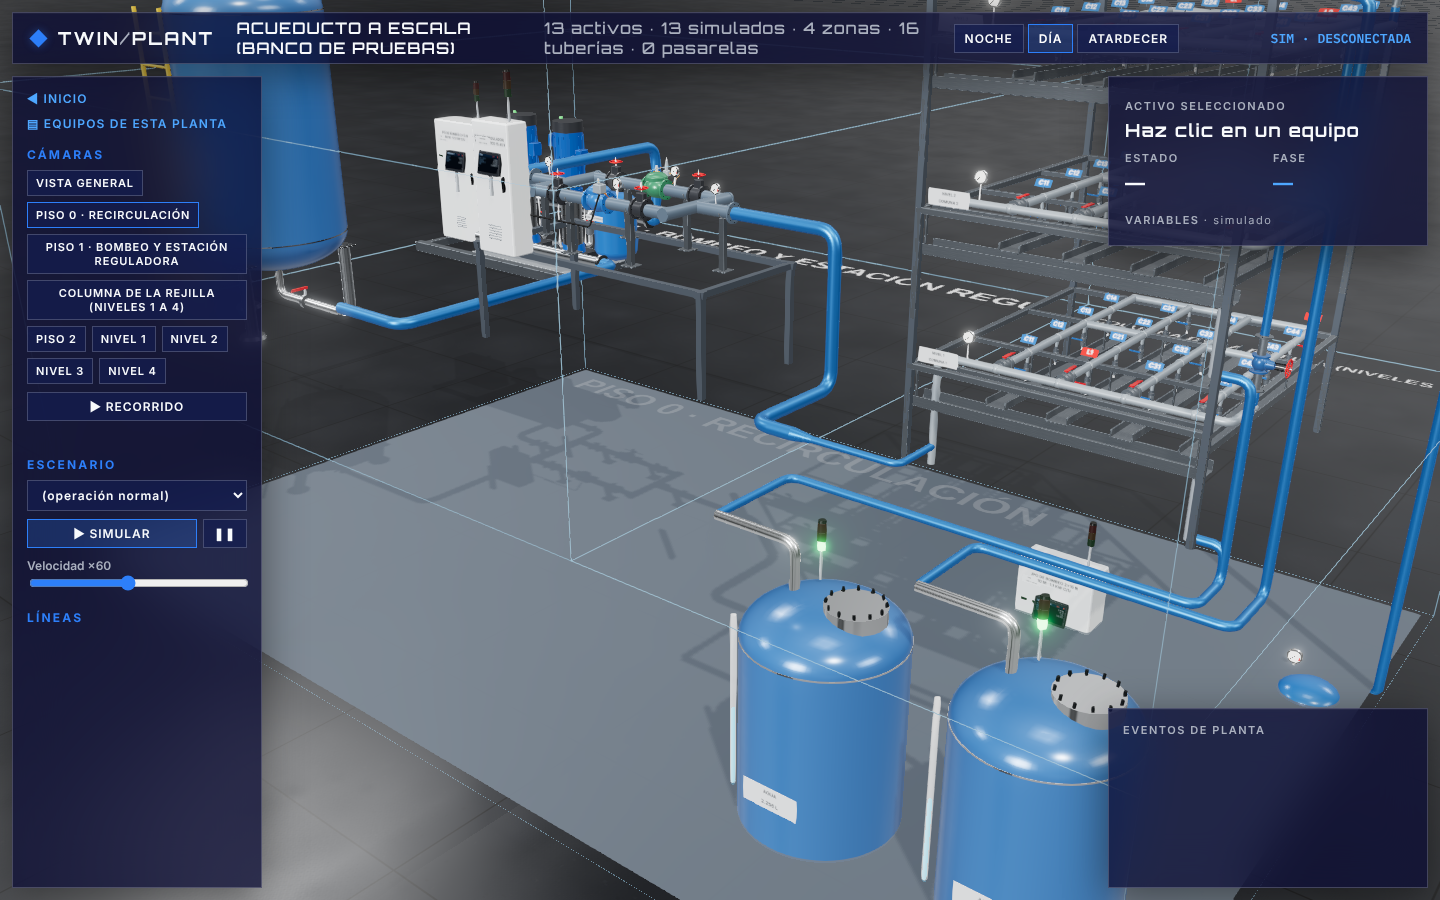
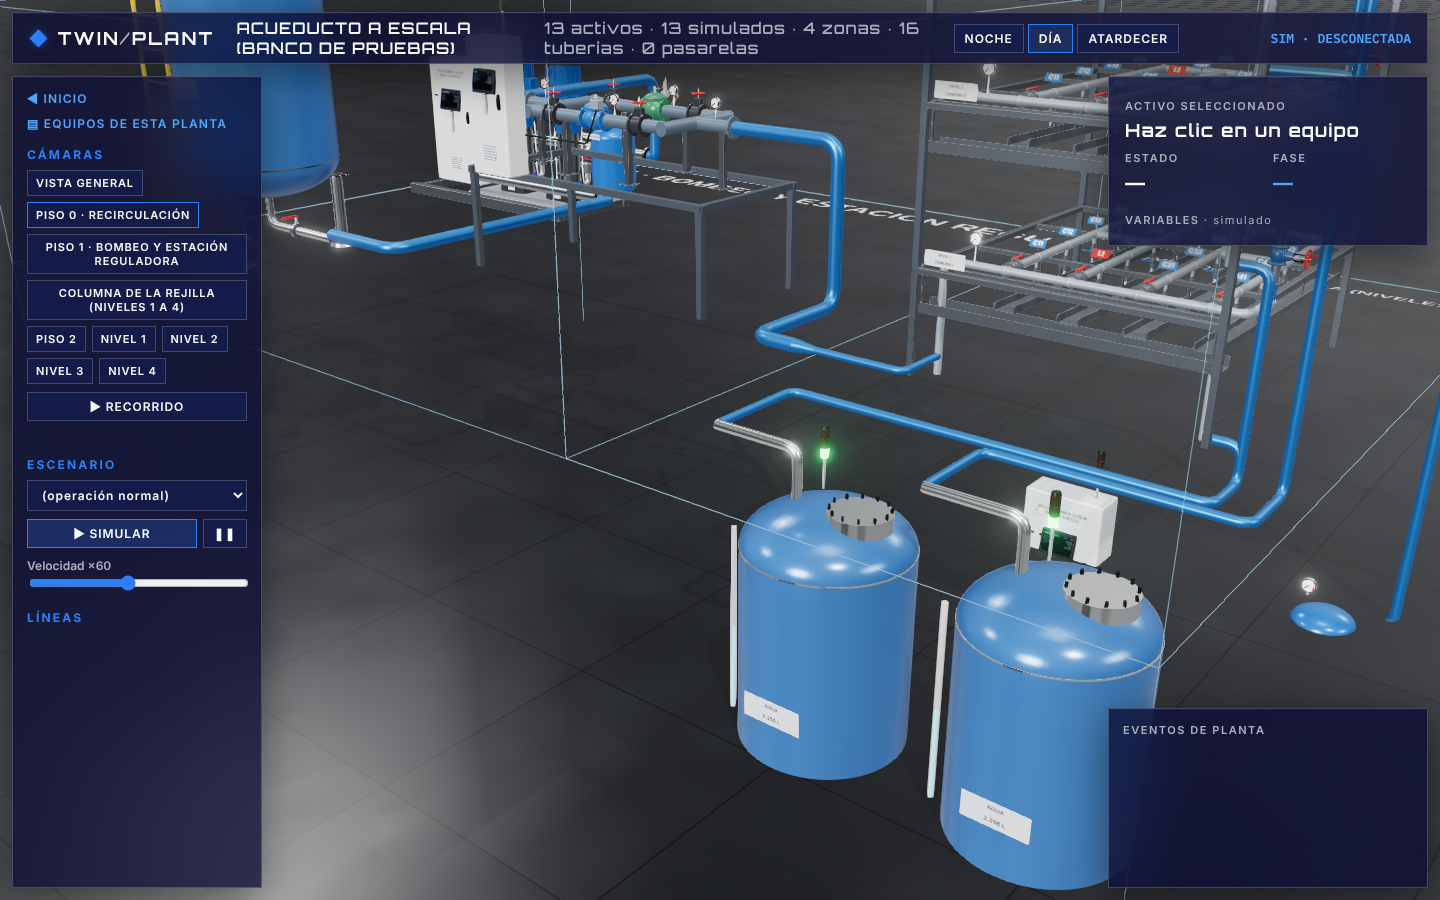
Recaptura del piso 0 con la losa en −1 m y nota de verificación corregida
Claude-Session: https://claude.ai/code/session_01ACLdsMFFmnex5Hq1FTxNvZ

diff --git a/docs/registro/bitacora/bitacora.md b/docs/registro/bitacora/bitacora.md
@@ -74,7 +74,7 @@ Horas en UTC (Colombia = UTC−5). Más reciente arriba. PR = pull request en `A
 - **Fecha/hora (UTC):** 2026-10-18 23:53–2026-10-19 01:30
 - **Solicitado por:** Andy (23:53, hilo «Desagüe por gravedad del nivel 1»; 01:09: «bajar los tanques 1 metro»). Antes se le propuso una boquilla lateral a 2,2 m, sin obra civil, como recomendación; él eligió bajar.
 - **Qué se hizo:** `industrial-models/water-network-scale-v1/plant.yaml`: tanques `tank-recirc-01..02` y bomba `pumpset-recirc-01` con la base a −1,0 m; boquillas de entrada en 2,245 m (las cuatro bajantes); salidas en −0,75 m y succiones en −0,68 m; el retorno de la bomba sale en −0,103 m. Comentario de la sección de recirculación actualizado. Documentación: `docs/water-network-plant.md` (tabla de equipos y de boquillas, y la simplificación ya resuelta) y la evidencia del acueducto.
-- **Verificación:** `apps/api` `pytest` 12 de 12 en verde (incluida la prueba de la bajante, que ahora termina en 2,245 m). Motor: `twin-lib plant validate water-network-scale-v1` en OK y 72 pruebas de runtime en verde. Capturas de la galería local: `docs/registro/evidencia/acueducto-tanques-bajados-1m.png` (vista general) y `docs/registro/evidencia/acueducto-recirculacion-foso-piso-0.png` (piso 0). La escena dibuja el piso sin foso: los tanques se ven apoyados en la losa.
+- **Verificación:** `apps/api` `pytest` 12 de 12 en verde (incluida la prueba de la bajante, que ahora termina en 2,245 m). Motor: `twin-lib plant validate water-network-scale-v1` en OK y 72 pruebas de runtime en verde. Capturas de la galería local: `docs/registro/evidencia/acueducto-tanques-bajados-1m.png` (vista general) y `docs/registro/evidencia/acueducto-recirculacion-foso-piso-0.png` (piso 0). Desde la zona corregida (−1,0 m), la losa del piso 0 baja al nivel de la base de los tanques: la captura de piso 0 se rehizo y muestra el foso.
 - **Decisiones:** [[decisiones]] D55.
 - **Conversación:** [[hilo-desague-nivel-1]].
 ### 2026-10-18 23:53 – 2026-10-19 00:35 · Línea fría y mostaza de salsas conectadas
